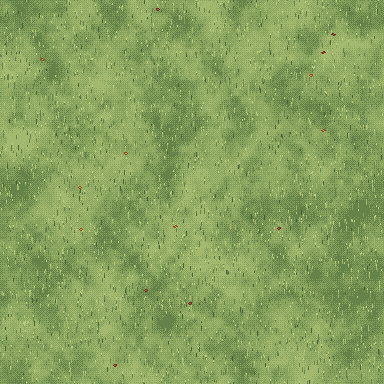
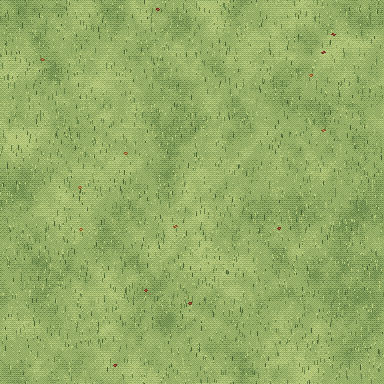
feat(hd2d): lanternes éclairées, fond du menu peint, cadrage de la caméra
Lumières ponctuelles chaudes sous les lampadaires et les portails, fond du menu
tiré du ciel peint (îles lointaines, feuilles d'automne au lieu de pétales),
caméra à 32° et 21 m, tuiles de sol sans grandes plages uniformes, atlas du sol
comparé couleur par couleur (il n'était pas refait).

Claude-Session: https://claude.ai/code/session_019NfiSKjta1ymK1rKpk9RxJ

diff --git a/tools/hd2d_ground.py b/tools/hd2d_ground.py
@@ -11,6 +11,11 @@ from hd2d_art import (Canvas, darker, fractal, mix, noise, paste_wrap, posterize
                       shade_texture, stretch, threshold)
 
 
+def _soft(gray, amount=0.6):
+    """Resserre le bruit autour du milieu : moins de grandes plages uniformes aux extrêmes."""
+    return gray.point(lambda v: round(128 + (v - 128) * amount))
+
+
 def _blades(img, rnd, count, colors, length=(3, 6), slant=0.0, width=1):
     """Brins d'herbe : traits verticaux de 1 px, pointe plus claire, posés sans raccord."""
     for _ in range(count):
@@ -98,7 +103,7 @@ def _voronoi(size, rnd, count, min_dist=0.0):
 
 def grass(size, rnd, base="grass", blades=2600, dry=False):
     tones = ramp(base, 5, spread=0.45)
-    img = posterize(fractal(size, (12, 12), rnd, 4, gain=0.7), tones[1:4], dither=90)
+    img = posterize(_soft(fractal(size, (12, 12), rnd, 4, gain=0.7)), tones[1:5], dither=110)
     if dry:
         patch = threshold(fractal(size, (4, 4), rnd, 3, gain=0.7), 178)
         dry_img = posterize(fractal(size, (16, 16), rnd, 2), ramp("grass_dry", 5)[1:4], dither=80)
@@ -121,9 +126,7 @@ def grass_dry(size, rnd):
 def path_dirt(size, rnd):
     base = mix("wood", "sand", 0.5)
     tones = ramp(base, 5, spread=0.4)
-    img = posterize(fractal(size, (10, 10), rnd, 4, gain=0.7), tones[1:4], dither=90)
-    ruts = threshold(fractal(size, (4, 12), rnd, 2), 205)
-    img.paste(Image.new("RGBA", size, rgba(tones[2])), (0, 0), ruts)
+    img = posterize(_soft(fractal(size, (10, 10), rnd, 4, gain=0.7)), tones[1:5], dither=110)
     _pebbles(img, rnd, 70, "stone", (3, 7))
     _dots(img, rnd, 400, [tones[0], tones[4]], (1, 2))
     _blades(img, rnd, 60, ramp("grass", 4)[1:], (2, 4))
@@ -276,7 +279,7 @@ def water(size, rnd):
 
 def mud(size, rnd):
     tones = ramp("#6E5A40", 5, spread=0.4)
-    img = posterize(fractal(size, (10, 10), rnd, 4, gain=0.7), tones[0:4], dither=90)
+    img = posterize(_soft(fractal(size, (10, 10), rnd, 4, gain=0.7)), tones[0:4], dither=110)
     puddles = threshold(fractal(size, (3, 3), rnd, 3), 185)
     img.paste(posterize(fractal(size, (16, 16), rnd, 2), ramp("#4E4A52", 3), dither=50), (0, 0), puddles)
     for _ in range(18):

diff --git a/tools/hd2d_assets.py b/tools/hd2d_assets.py
@@ -85,6 +85,12 @@ def generate(entry, table):
     return path
 
 
+def _differs(a, b):
+    """Vrai si deux images RGBA de même taille diffèrent (couleurs ou alpha)."""
+    diff = ImageChops.difference(a.convert("RGBA"), b.convert("RGBA"))
+    return any(band.getbbox() is not None for band in diff.split())
+
+
 def build_atlas():
     """Assemble les tuiles de sol en un atlas (rien n'est réécrit s'il est déjà à jour)."""
     rows = (len(GROUND_LAYERS) + ATLAS_COLUMNS - 1) // ATLAS_COLUMNS
@@ -96,7 +102,7 @@ def build_atlas():
         atlas.paste(tile, ((i % ATLAS_COLUMNS) * TILE, (i // ATLAS_COLUMNS) * TILE))
     if os.path.exists(ATLAS):
         current = Image.open(ATLAS).convert("RGBA")
-        if current.size == atlas.size and ImageChops.difference(current, atlas).getbbox() is None:
+        if current.size == atlas.size and not _differs(current, atlas):
             return False
     os.makedirs(os.path.dirname(ATLAS), exist_ok=True)
     atlas.save(ATLAS, optimize=True)
@@ -114,7 +120,7 @@ def atlas_is_current():
     for i, name in enumerate(GROUND_LAYERS):
         tile = Image.open(os.path.join(ROOT, "assets", "hd2d", "ground", name + ".png")).convert("RGBA")
         x, y = (i % ATLAS_COLUMNS) * TILE, (i // ATLAS_COLUMNS) * TILE
-        if tile.size != (TILE, TILE) or ImageChops.difference(current.crop((x, y, x + TILE, y + TILE)), tile).getbbox():
+        if tile.size != (TILE, TILE) or _differs(current.crop((x, y, x + TILE, y + TILE)), tile):
             return False
     return True
 
